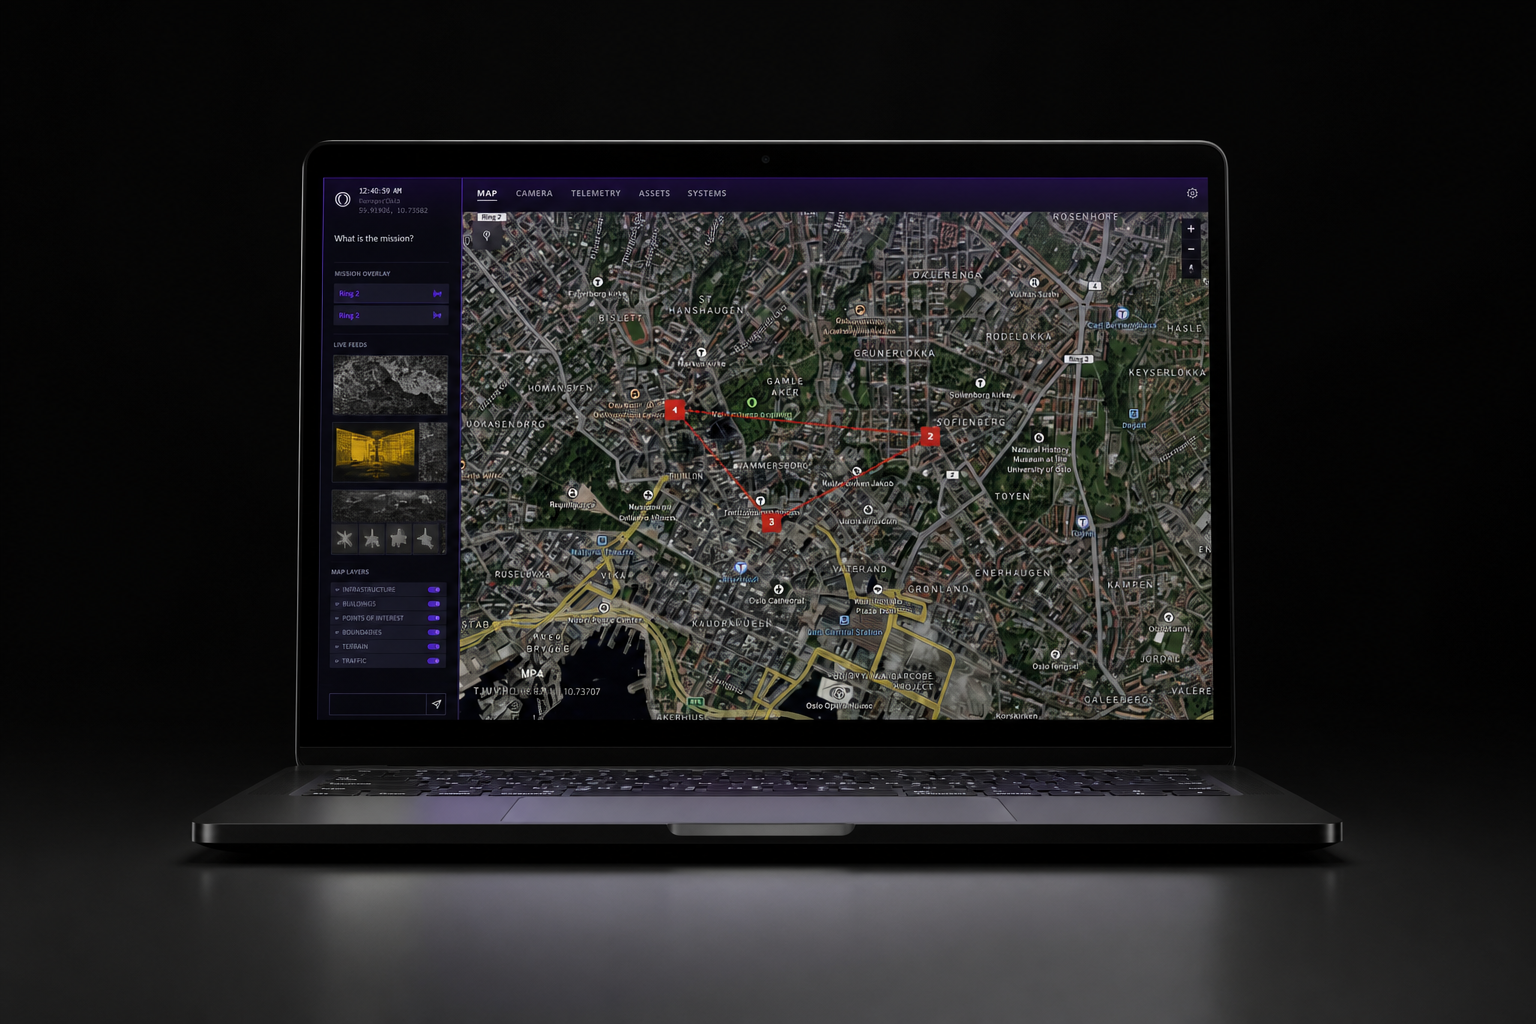
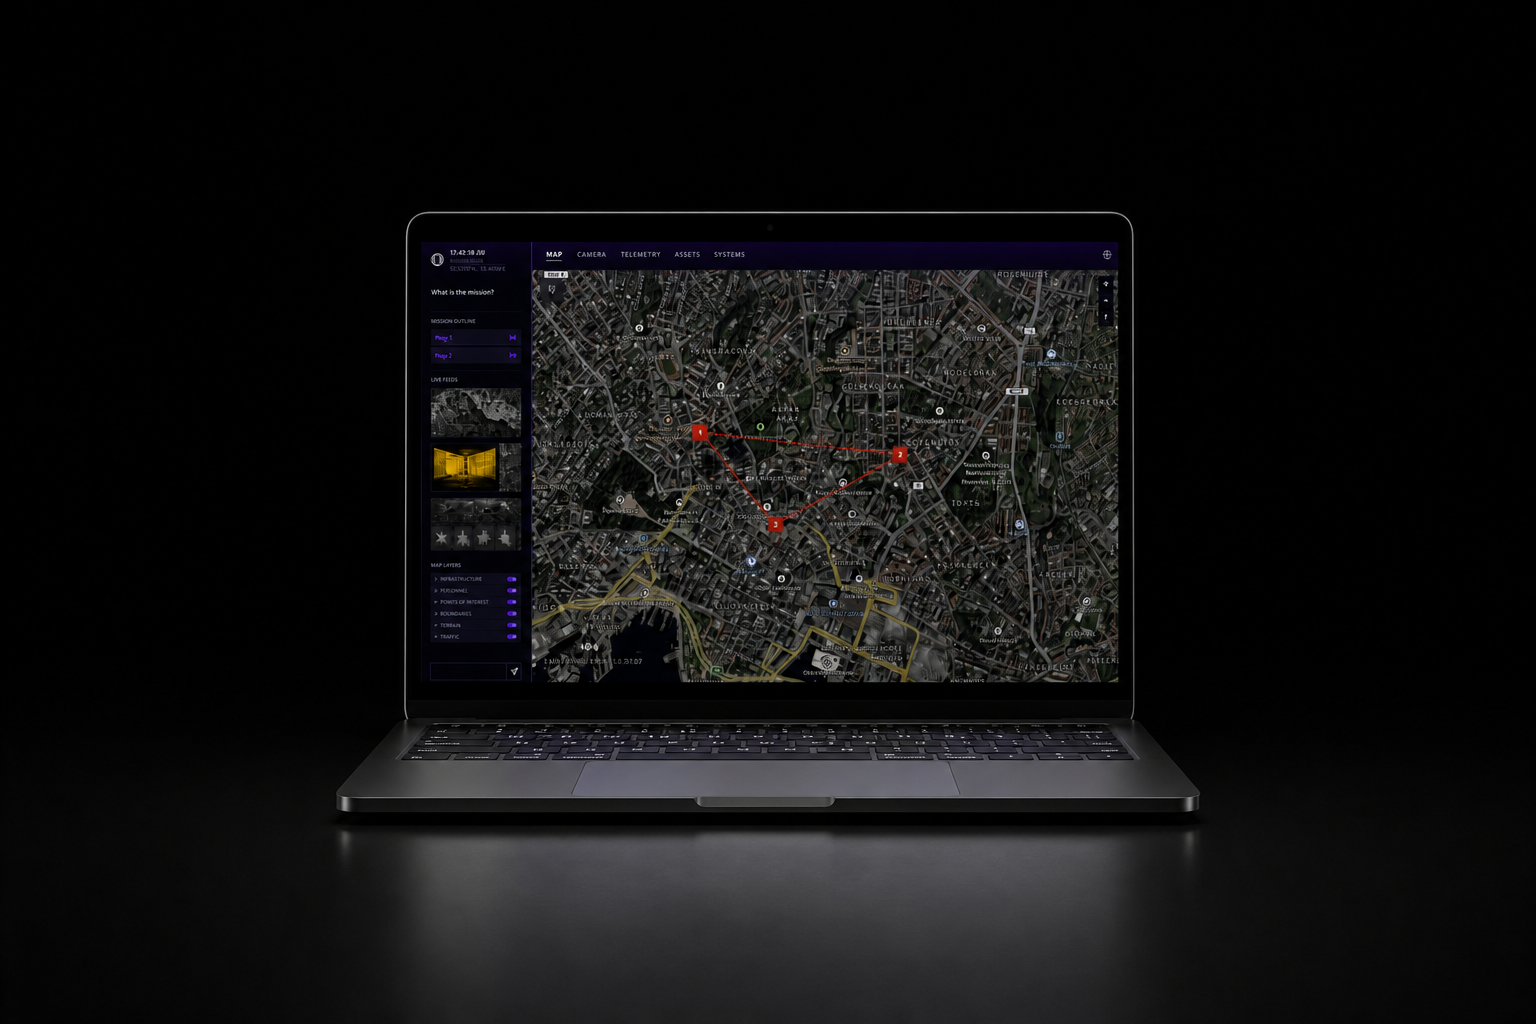
Regenerate Centurion mockup wider

diff --git a/src/app/page.tsx b/src/app/page.tsx
@@ -97,7 +97,7 @@ export default function Home() {
                   src="/centurion-laptop-mockup.png"
                   alt="Centurion command dashboard on laptop"
                   fill
-                  className="object-contain object-center p-8 sm:p-12 lg:p-16"
+                  className="object-cover object-center"
                   sizes="(max-width: 1280px) 100vw, 1280px"
                 />
                 <div className="absolute inset-0 bg-black/20" />